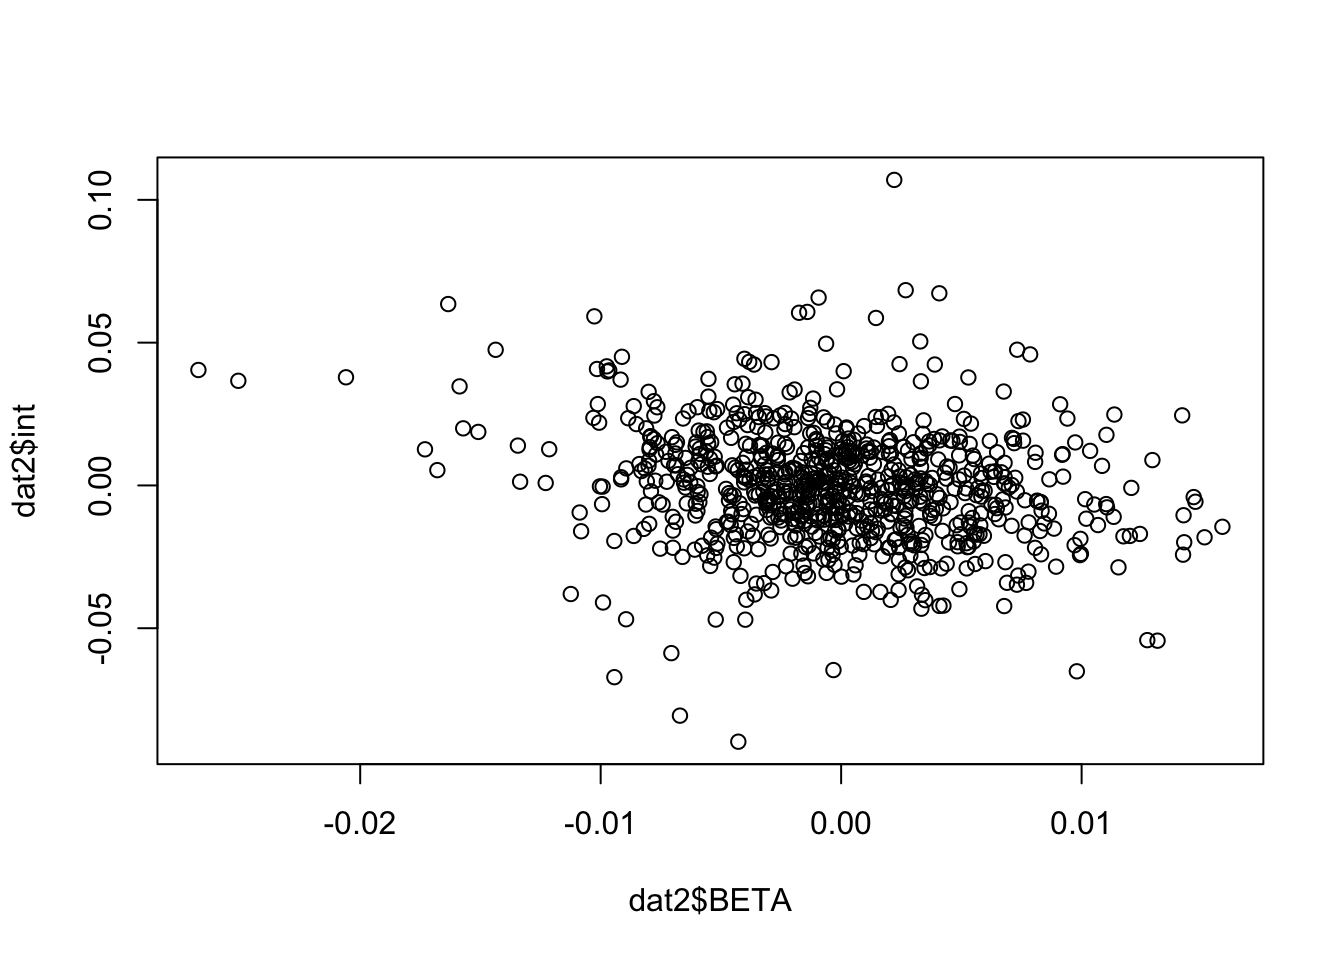
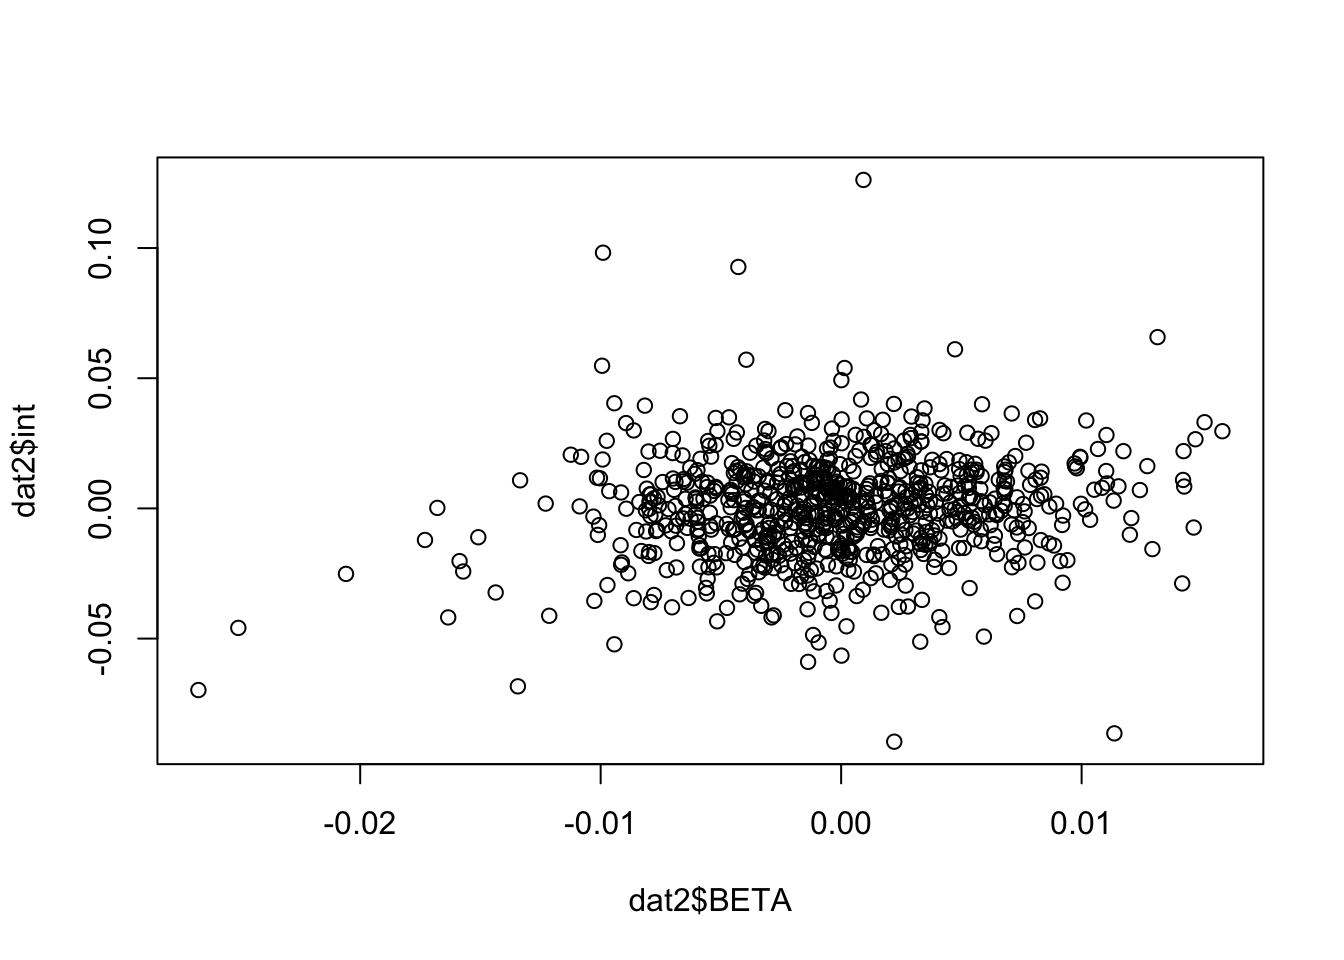
Build site.

diff --git a/docs/ukb_mr_sibling.html b/docs/ukb_mr_sibling.html
@@ -474,16 +474,16 @@ This reproducible <a href="http://rmarkdown.rstudio.com">R Markdown</a> analysis
 <div class="panel panel-default">
 <div class="panel-heading">
 <p class="panel-title">
-<a data-toggle="collapse" data-parent="#workflowr-checks" href="#strongRepositoryversionstrongahrefhttpsgithubcomyunqiyang0215simulationcalibratedmrtree70c49227ae53acfc13422dd01d55aecb59a4599ftargetblank70c4922a"> <span class="glyphicon glyphicon-ok text-success" aria-hidden="true"></span> <strong>Repository version:</strong> <a href="https://github.com/yunqiyang0215/simulation-calibrated-mr/tree/70c49227ae53acfc13422dd01d55aecb59a4599f" target="_blank">70c4922</a> </a>
+<a data-toggle="collapse" data-parent="#workflowr-checks" href="#strongRepositoryversionstrongahrefhttpsgithubcomyunqiyang0215simulationcalibratedmrtree7bb0d992ab37ff7ed5147bb4fc69da401951177ctargetblank7bb0d99a"> <span class="glyphicon glyphicon-ok text-success" aria-hidden="true"></span> <strong>Repository version:</strong> <a href="https://github.com/yunqiyang0215/simulation-calibrated-mr/tree/7bb0d992ab37ff7ed5147bb4fc69da401951177c" target="_blank">7bb0d99</a> </a>
 </p>
 </div>
[2 lines of base64/hex data omitted]
 <div class="panel-body">
 <p>
 Great! You are using Git for version control. Tracking code development and connecting the code version to the results is critical for reproducibility.
 </p>
 <p>
-The results in this page were generated with repository version <a href="https://github.com/yunqiyang0215/simulation-calibrated-mr/tree/70c49227ae53acfc13422dd01d55aecb59a4599f" target="_blank">70c4922</a>. See the <em>Past versions</em> tab to see a history of the changes made to the R Markdown and HTML files.
+The results in this page were generated with repository version <a href="https://github.com/yunqiyang0215/simulation-calibrated-mr/tree/7bb0d992ab37ff7ed5147bb4fc69da401951177c" target="_blank">7bb0d99</a>. See the <em>Past versions</em> tab to see a history of the changes made to the R Markdown and HTML files.
 </p>
 <p>
 Note that you need to be careful to ensure that all relevant files for the analysis have been committed to Git prior to generating the results (you can use <code>wflow_publish</code> or <code>wflow_git_commit</code>). workflowr only checks the R Markdown file, but you know if there are other scripts or data files that it depends on. Below is the status of the Git repository when the results were generated:
@@ -531,6 +531,40 @@ Message
 </tr>
 </thead>
 <tbody>
+<tr>
+<td>
+Rmd
+</td>
+<td>
+<a href="https://github.com/yunqiyang0215/simulation-calibrated-mr/blob/7bb0d992ab37ff7ed5147bb4fc69da401951177c/analysis/ukb_mr_sibling.Rmd" target="_blank">7bb0d99</a>
+</td>
+<td>
+yunqiyang0215
+</td>
+<td>
+2024-05-23
+</td>
+<td>
+wflow_publish("analysis/ukb_mr_sibling.Rmd")
+</td>
+</tr>
+<tr>
+<td>
+html
+</td>
+<td>
+<a href="https://rawcdn.githack.com/yunqiyang0215/simulation-calibrated-mr/03df7e39247fdabba91d3ac4ce5ae07b4aa65e18/docs/ukb_mr_sibling.html" target="_blank">03df7e3</a>
+</td>
+<td>
+yunqiyang0215
+</td>
+<td>
+2024-05-23
+</td>
+<td>
+Build site.
+</td>
+</tr>
 <tr>
 <td>
 Rmd
@@ -859,6 +893,17 @@ Date
 <tbody>
 <tr>
 <td>
+<a href="https://github.com/yunqiyang0215/simulation-calibrated-mr/blob/03df7e39247fdabba91d3ac4ce5ae07b4aa65e18/docs/figure/ukb_mr_sibling.Rmd/unnamed-chunk-8-1.png" target="_blank">03df7e3</a>
+</td>
+<td>
+yunqiyang0215
+</td>
+<td>
+2024-05-23
+</td>
+</tr>
+<tr>
+<td>
 <a href="https://github.com/yunqiyang0215/simulation-calibrated-mr/blob/ccb152507c46002da380283f4b24a87a25f02a09/docs/figure/ukb_mr_sibling.Rmd/unnamed-chunk-8-1.png" target="_blank">ccb1525</a>
 </td>
 <td>
@@ -962,6 +1007,17 @@ Date
 <tbody>
 <tr>
 <td>
+<a href="https://github.com/yunqiyang0215/simulation-calibrated-mr/blob/03df7e39247fdabba91d3ac4ce5ae07b4aa65e18/docs/figure/ukb_mr_sibling.Rmd/unnamed-chunk-11-1.png" target="_blank">03df7e3</a>
+</td>
+<td>
+yunqiyang0215
+</td>
+<td>
+2024-05-23
+</td>
+</tr>
+<tr>
+<td>
 <a href="https://github.com/yunqiyang0215/simulation-calibrated-mr/blob/ccb152507c46002da380283f4b24a87a25f02a09/docs/figure/ukb_mr_sibling.Rmd/unnamed-chunk-11-1.png" target="_blank">ccb1525</a>
 </td>
 <td>
@@ -1021,6 +1077,43 @@ dat2 = merge(sumstat, ext, by.x = &quot;variant&quot;, by.y = &quot;ID&quot;, al
 dat2$BETA = ifelse(dat2$allele.test == dat2$A1, dat2$BETA, -dat2$BETA)</code></pre>
 <pre class="r"><code>plot(dat2$BETA, dat2$int)</code></pre>
 <p><img src="figure/ukb_mr_sibling.Rmd/unnamed-chunk-14-1.png" width="672" style="display: block; margin: auto;" /></p>
+<p>
+<button type="button" class="btn btn-default btn-xs btn-workflowr btn-workflowr-fig" data-toggle="collapse" data-target="#fig-unnamed-chunk-14-1">
+Past versions of unnamed-chunk-14-1.png
+</button>
+</p>
+<div id="fig-unnamed-chunk-14-1" class="collapse">
+<div class="table-responsive">
+<table class="table table-condensed table-hover">
+<thead>
+<tr>
+<th>
+Version
+</th>
+<th>
+Author
+</th>
+<th>
+Date
+</th>
+</tr>
+</thead>
+<tbody>
+<tr>
+<td>
+<a href="https://github.com/yunqiyang0215/simulation-calibrated-mr/blob/03df7e39247fdabba91d3ac4ce5ae07b4aa65e18/docs/figure/ukb_mr_sibling.Rmd/unnamed-chunk-14-1.png" target="_blank">03df7e3</a>
+</td>
+<td>
+yunqiyang0215
+</td>
+<td>
+2024-05-23
+</td>
+</tr>
+</tbody>
+</table>
+</div>
+</div>
 <pre class="r"><code>indx = which(pval.ext &lt; 1e-8)
 dat1 = dat1[indx, ]
 dat2 = dat2[indx, ]
@@ -1072,8 +1165,8 @@ mr = mr_ivw(MRInput)
 res.mr[, 4] = c(mr@Estimate, mr@StdError)</code></pre>
 <pre class="r"><code>res.mr</code></pre>
 <pre><code>           calibrated adj+uncalibrated internal.gwas external.gwas
-point.est -0.04762544       0.01012382    0.12806389   -0.12257214
-std        0.06862821       0.07628908    0.07623339    0.03002803</code></pre>
+point.est -0.02018656      -0.03407055   -0.18439400   -0.12257214
+std        0.06899503       0.07680355    0.07618339    0.03002803</code></pre>
 <pre class="r"><code>labels &lt;- c(&#39;calibrated&#39;, &#39;adj+uncalibrated&#39;, &#39;internal.gwas&#39;, &#39;external.gwas&#39;)
 point_est &lt;- res.mr[1, ]
 error_bars &lt;- 1.96 * res.mr[2, ]
@@ -1106,6 +1199,17 @@ Date
 </tr>
 </thead>
 <tbody>
+<tr>
+<td>
+<a href="https://github.com/yunqiyang0215/simulation-calibrated-mr/blob/03df7e39247fdabba91d3ac4ce5ae07b4aa65e18/docs/figure/ukb_mr_sibling.Rmd/unnamed-chunk-18-1.png" target="_blank">03df7e3</a>
+</td>
+<td>
+yunqiyang0215
+</td>
+<td>
+2024-05-23
+</td>
+</tr>
 <tr>
 <td>
 <a href="https://github.com/yunqiyang0215/simulation-calibrated-mr/blob/508300b45264b29758cb501c74fc5413b1c97f97/docs/figure/ukb_mr_sibling.Rmd/unnamed-chunk-18-1.png" target="_blank">508300b</a>
@@ -1164,8 +1268,8 @@ stderr = mr$beta.se
 res.mr[, 4] = c(point_est, stderr)</code></pre>
 <pre class="r"><code>res.mr</code></pre>
 <pre><code>           calibrated adj+uncalibrated internal.gwas external.gwas
-point.est -0.06156528       0.01318673    0.17593698   -0.13014622
-std        0.09080663       0.11528355    0.09532537    0.01470978</code></pre>
+point.est -0.02509163      -0.04455099   -0.25259326   -0.13014622
+std        0.09334062       0.11506360    0.09582579    0.01470978</code></pre>
 <pre class="r"><code>labels &lt;- c(&#39;calibrated&#39;, &#39;adj+uncalibrated&#39;, &#39;internal.gwas&#39;, &#39;external.gwas&#39;)
 point_est &lt;- res.mr[1, ]
 error_bars &lt;- 1.96 * res.mr[2, ]
@@ -1176,6 +1280,43 @@ plot(1:4, point_est, ylim=c(min(point_est - error_bars), max(point_est + error_b
 arrows(1:4, point_est - error_bars, 1:4, point_est + error_bars, angle=90, code=3, length=0.1, col=&#39;red&#39;)
 axis(1, at=1:4, labels=labels)</code></pre>
 <p><img src="figure/ukb_mr_sibling.Rmd/unnamed-chunk-21-1.png" width="672" style="display: block; margin: auto;" /></p>
+<p>
+<button type="button" class="btn btn-default btn-xs btn-workflowr btn-workflowr-fig" data-toggle="collapse" data-target="#fig-unnamed-chunk-21-1">
+Past versions of unnamed-chunk-21-1.png
+</button>
+</p>
+<div id="fig-unnamed-chunk-21-1" class="collapse">
+<div class="table-responsive">
+<table class="table table-condensed table-hover">
+<thead>
+<tr>
+<th>
+Version
+</th>
+<th>
+Author
+</th>
+<th>
+Date
+</th>
+</tr>
+</thead>
+<tbody>
+<tr>
+<td>
+<a href="https://github.com/yunqiyang0215/simulation-calibrated-mr/blob/03df7e39247fdabba91d3ac4ce5ae07b4aa65e18/docs/figure/ukb_mr_sibling.Rmd/unnamed-chunk-21-1.png" target="_blank">03df7e3</a>
+</td>
+<td>
+yunqiyang0215
+</td>
+<td>
+2024-05-23
+</td>
+</tr>
+</tbody>
+</table>
+</div>
+</div>
 </div>
 </div>
 <div id="bmi-on-education-yrs-1" class="section level3">
@@ -1286,16 +1427,12 @@ sum(dat1$variant != dat2$variant)</code></pre>
 <pre><code>[1] 0</code></pre>
 <pre class="r"><code>sum(dat1$allele.test != dat2$allele.test)</code></pre>
 <pre><code>[1] 0</code></pre>
-<pre class="r"><code>plot(dat1$BETA, dat2$BETA)</code></pre>
-<p><img src="figure/ukb_mr_sibling.Rmd/unnamed-chunk-33-1.png" width="672" style="display: block; margin: auto;" /></p>
-<pre class="r"><code>plot(dat1$int, dat2$int)</code></pre>
-<p><img src="figure/ukb_mr_sibling.Rmd/unnamed-chunk-33-2.png" width="672" style="display: block; margin: auto;" /></p>
-<pre class="r"><code>plot(dat1$BETA, dat2$int)</code></pre>
-<p><img src="figure/ukb_mr_sibling.Rmd/unnamed-chunk-33-3.png" width="672" style="display: block; margin: auto;" /></p>
-<pre class="r"><code>plot(dat1$int, dat2$BETA)</code></pre>
-<p><img src="figure/ukb_mr_sibling.Rmd/unnamed-chunk-33-4.png" width="672" style="display: block; margin: auto;" /></p>
-<pre class="r"><code>plot(dat2$BETA, dat2$int)</code></pre>
-<p><img src="figure/ukb_mr_sibling.Rmd/unnamed-chunk-33-5.png" width="672" style="display: block; margin: auto;" /></p>
+<pre class="r"><code>plot(dat1$BETA, dat2$BETA)
+plot(dat1$int, dat2$int)
+plot(dat1$BETA, dat2$int)
+plot(dat1$int, dat2$BETA)
+
+plot(dat2$BETA, dat2$int)</code></pre>
 <pre class="r"><code># internal gwas
 MRInput &lt;- mr_input(bx = dat1$int,
                     bxse = sqrt(dat1$int.var),
